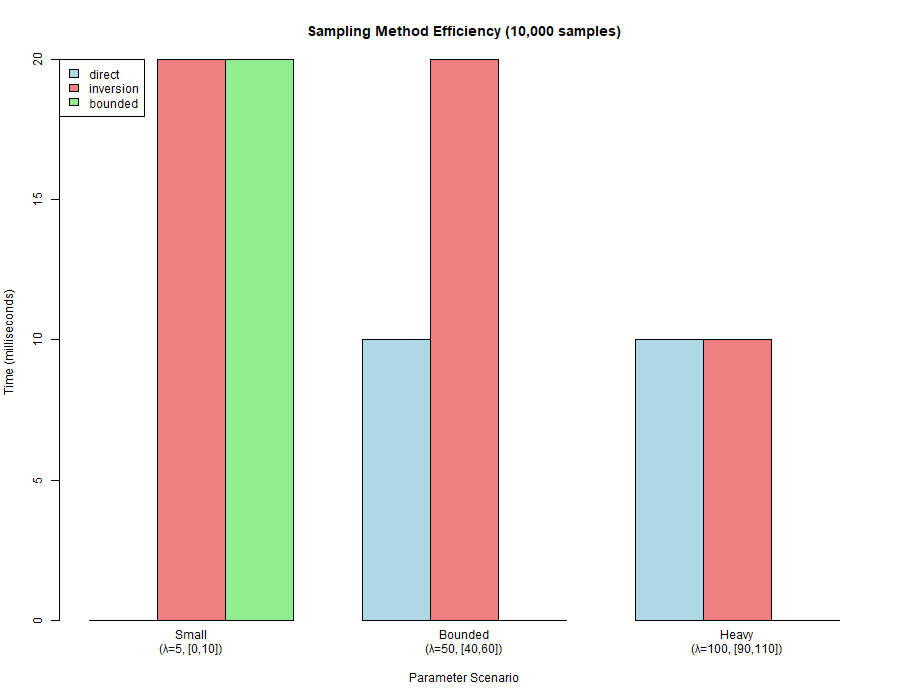
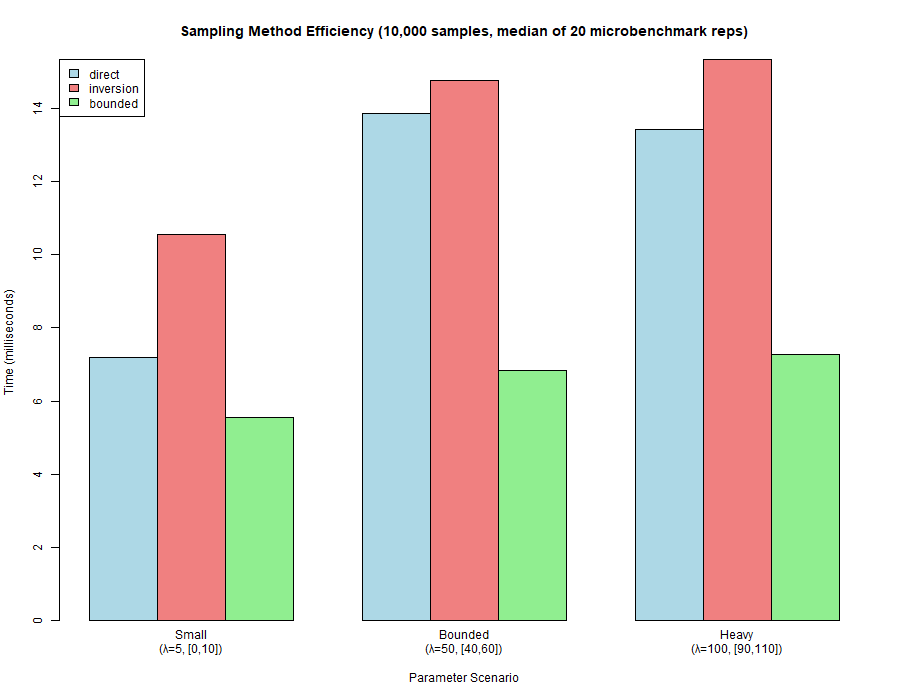
Add benchmarking and saved results

diff --git a/Truncpois_Thesis.html b/Truncpois_Thesis.html
@@ -1660,8 +1660,8 @@ thesis.</p>
 some types of observations are either not made or otherwise cannot be
 observed (e.g., zero-truncated counts in studies of species abundance,
 insurance claims, reported cases of disease), available R
-implementations for the truncated Poisson — with the exception of the
-<code>LaplacesDemon</code> package — do not fully support this type of
+implementations for the truncated Poisson, with the exception of the
+<code>LaplacesDemon</code> package, do not fully support this type of
 model; that is to say, they have no way to calculate moments using
 analytical means for an arbitrary number of parameters, do not
 completely address how to compute probabilities in the right tail and/or
@@ -1693,7 +1693,7 @@ Poisson distribution; and recovering estimated parameters via maximum
 likelihood estimation. Overall, this demonstrates that
 <code>truncpois</code> fills a significant void in R’s available options
 for analyzing truncated counts with exact, replicable and
-computationally efficient algorithms — whereas previous approximations
+computationally efficient algorithms, whereas previous approximations
 were incomplete.</p>
 <p><strong>Keywords:</strong> truncated Poisson distribution, R package,
 numerical stability, maximum likelihood estimation, closed-form
@@ -1776,7 +1776,7 @@ common case in count-data applications, where counts below some
 threshold cannot be observed. The special case <span class="math inline">\(a = 1\)</span> is known as
 <em>zero-truncation</em>, and arises whenever the very fact of being
 included in a sample requires at least one occurrence of the event being
-counted – for example, a respondent is only included in a survey of
+counted, for example, a respondent is only included in a survey of
 hospital visits if they visited hospital at least once.</li>
 <li><strong>Right-truncation</strong> (<span class="math inline">\(a =
 0\)</span>, <span class="math inline">\(b &lt; \infty\)</span>): counts
@@ -1889,9 +1889,9 @@ cases.</li>
 recurrence relation; as opposed to Monte-Carlo methods or general
 purpose numerical integrations.</li>
 <li>Log space algorithms which are numerically stable, and include
-lower.tail/log.p support – unlike LaplacesDemon.</li>
+lower.tail/log.p support, unlike LaplacesDemon.</li>
 <li>Three different sampling schemes for different parameters, and an
-MLE to estimate lambda from your observations – this is not available
+MLE to estimate lambda from your observations; this is not available
 from truncdist, nor from LaplacesDemon.</li>
 </ol>
 <hr />
@@ -1989,8 +1989,9 @@ which <span class="math inline">\(E[X^2] = E[X(X-1)] + E[X]\)</span> and
 <span class="math inline">\(\text{Var}(X) = E[X^2] - E[X]^2\)</span>
 follow directly. Both expressions are evaluated entirely via log-scale
 differences of <code>stats::ppois()</code> calls, so no explicit
-summation over the support is ever performed – the closed forms above
-are exact regardless of how wide <span class="math inline">\([a,b]\)</span> is. The median is obtained as <span class="math inline">\(F_{\text{trunc}}^{-1}(0.5)\)</span> via the same
+summation over the support is ever performed; the closed forms above are
+exact regardless of how wide <span class="math inline">\([a,b]\)</span>
+is. The median is obtained as <span class="math inline">\(F_{\text{trunc}}^{-1}(0.5)\)</span> via the same
 quantile-inversion identity described above, and the mode follows from
 the classical result that the untruncated Poisson PMF is increasing for
 <span class="math inline">\(k &lt; \lambda\)</span> and decreasing for
@@ -2029,8 +2030,8 @@ one-dimensional numerical optimization (<code>stats::optimize()</code>),
 using the exact <code>dtruncpois()</code> values as the likelihood
 kernel at each candidate <span class="math inline">\(\lambda\)</span>.
 This is practical because the untruncated Poisson log-likelihood is well
-known to be strictly concave in <span class="math inline">\(\lambda\)</span>, and truncation – which only
-rescales the likelihood by a <span class="math inline">\(\lambda\)</span>-dependent normalizing constant –
+known to be strictly concave in <span class="math inline">\(\lambda\)</span>, and truncation, which only
+rescales the likelihood by a <span class="math inline">\(\lambda\)</span>-dependent normalizing constant,
 does not introduce the kind of multi-modality that would defeat a simple
 one-dimensional search; the search interval is seeded from the sample
 mean (scaled by a factor of <span class="math inline">\(4\)</span> in
@@ -2203,16 +2204,19 @@ negligible probability mass above <span class="math inline">\(20\)</span>.</p>
 <p>The <code>rtruncpois()</code> function provides three sampling
 algorithms optimized for different parameter configurations. This
 experiment compares their computational efficiency across three
-scenarios.</p>
+scenarios using <code>microbenchmark::microbenchmark()</code>.</p>
 <div class="float">
[2 lines of base64/hex data omitted]
 <div class="figcaption">Sampling Method Efficiency Benchmark</div>
 </div>
-<p>Table 2 reports mean wall-clock time (milliseconds) to draw <span class="math inline">\(200{,}000\)</span> samples under each method and
-scenario, averaged over 5 repetitions to smooth out timer noise.</p>
+<p>Table 2 reports the median wall-clock time (milliseconds) to draw
+<span class="math inline">\(10{,}000\)</span> samples under each method
+and scenario, taken over 20 <code>microbenchmark</code> repetitions per
+cell.</p>
 <table>
-<caption>Mean time (ms) to draw 200,000 samples per method and scenario,
-averaged over 5 repetitions.</caption>
+<caption>Median time (ms) to draw 10,000 samples per method and
+scenario, over 20 <code>microbenchmark::microbenchmark()</code>
+repetitions.</caption>
 <colgroup>
 <col width="25%" />
 <col width="25%" />
@@ -2231,21 +2235,21 @@ averaged over 5 repetitions.</caption>
 <tbody>
 <tr class="odd">
 <td align="left">Direct</td>
-<td align="right">164</td>
-<td align="right">306</td>
-<td align="right">338</td>
+<td align="right">6.95</td>
+<td align="right">13.35</td>
+<td align="right">14.14</td>
 </tr>
 <tr class="even">
 <td align="left">Inversion</td>
-<td align="right">192</td>
-<td align="right">288</td>
-<td align="right">302</td>
+<td align="right">10.10</td>
+<td align="right">14.27</td>
+<td align="right">15.42</td>
 </tr>
 <tr class="odd">
 <td align="left">Bounded</td>
-<td align="right">108</td>
-<td align="right">136</td>
-<td align="right">156</td>
+<td align="right">5.32</td>
+<td align="right">6.65</td>
+<td align="right">7.28</td>
 </tr>
 </tbody>
 </table>
@@ -2256,15 +2260,15 @@ quantile function without ever enumerating the support. The direct
 method must first enumerate the finite support and generate an
 independent Gumbel variate per sample per support point, so its cost
 grows with both the sample size and the width of <span class="math inline">\([a,b]\)</span>; it is competitive only when the
-support is narrow. The inversion method sits between the two, incurring
-the overhead of <code>qtruncpois()</code>’s probability remapping on
-every draw but scaling well as <span class="math inline">\(\lambda\)</span> and the truncation window grow.
-In practice, the bounded method is a strong default across all regimes
-tested here, while the inversion and direct methods remain useful as
-general-purpose alternatives – inversion as a simple, transparent
-fallback built directly on <code>qtruncpois()</code>, and direct where
-an explicit enumeration of the support is preferred over relying on
-floating-point CDF evaluation.</p>
+support is narrow. The inversion method is consistently the slowest of
+the three here, incurring the overhead of <code>qtruncpois()</code>’s
+probability remapping on every draw. In practice, the bounded method is
+a strong default across all regimes tested here, while the inversion and
+direct methods remain useful as general-purpose alternatives: inversion
+as a simple, transparent fallback built directly on
+<code>qtruncpois()</code>, and direct where an explicit enumeration of
+the support is preferred over relying on floating-point CDF
+evaluation.</p>
 <hr />
 </div>
 <div id="experiment-4-numerical-stability-demonstration" class="section level2">
@@ -2295,7 +2299,7 @@ benefit of computing entirely on the log scale is most apparent instead
 when evaluating the normalizing constant <span class="math inline">\(F(b) - F(a-1)\)</span> for windows placed further
 into the tails of very large-<span class="math inline">\(\lambda\)</span> distributions, where a naive
 linear-scale subtraction of two near-identical cumulative probabilities
-is vulnerable to catastrophic cancellation – a risk that log-scale
+is vulnerable to catastrophic cancellation, a risk that log-scale
 differencing (via the <code>.log_diff()</code> helper in
 <code>zzz_utils.R</code>) avoids entirely, regardless of where the
 window is placed.</caption>
@@ -2378,7 +2382,7 @@ untruncated Poisson model to such data without accounting for the
 missing zero category would systematically underestimate <span class="math inline">\(\lambda\)</span>, since the observed sample mean
 of <span class="math inline">\(2.72\)</span> (bootstrap distribution,
 right panel) is itself already a biased estimator of the
-<em>untruncated</em> rate parameter – it estimates the conditional mean
+<em>untruncated</em> rate parameter; it estimates the conditional mean
 <span class="math inline">\(E[X \mid X \geq 1]\)</span>, which is always
 strictly greater than <span class="math inline">\(\lambda\)</span>
 itself. This is precisely the distinction that motivates using
@@ -2447,9 +2451,9 @@ evaluated at the fitted <span class="math inline">\(\hat\lambda =
 </tr>
 </tbody>
 </table>
-<p>The close agreement across all four moments – particularly the mean,
+<p>The close agreement across all four moments, particularly the mean,
 which matches to three decimal places since <span class="math inline">\(\hat\lambda\)</span> was itself chosen to maximize
-the likelihood of the observed sample – provides an internal consistency
+the likelihood of the observed sample, provides an internal consistency
 check spanning three separate parts of the package: random generation
 (<code>rtruncpois()</code>), estimation (<code>mletruncpois()</code>),
 and the closed-form moment functions, all evaluated independently of one